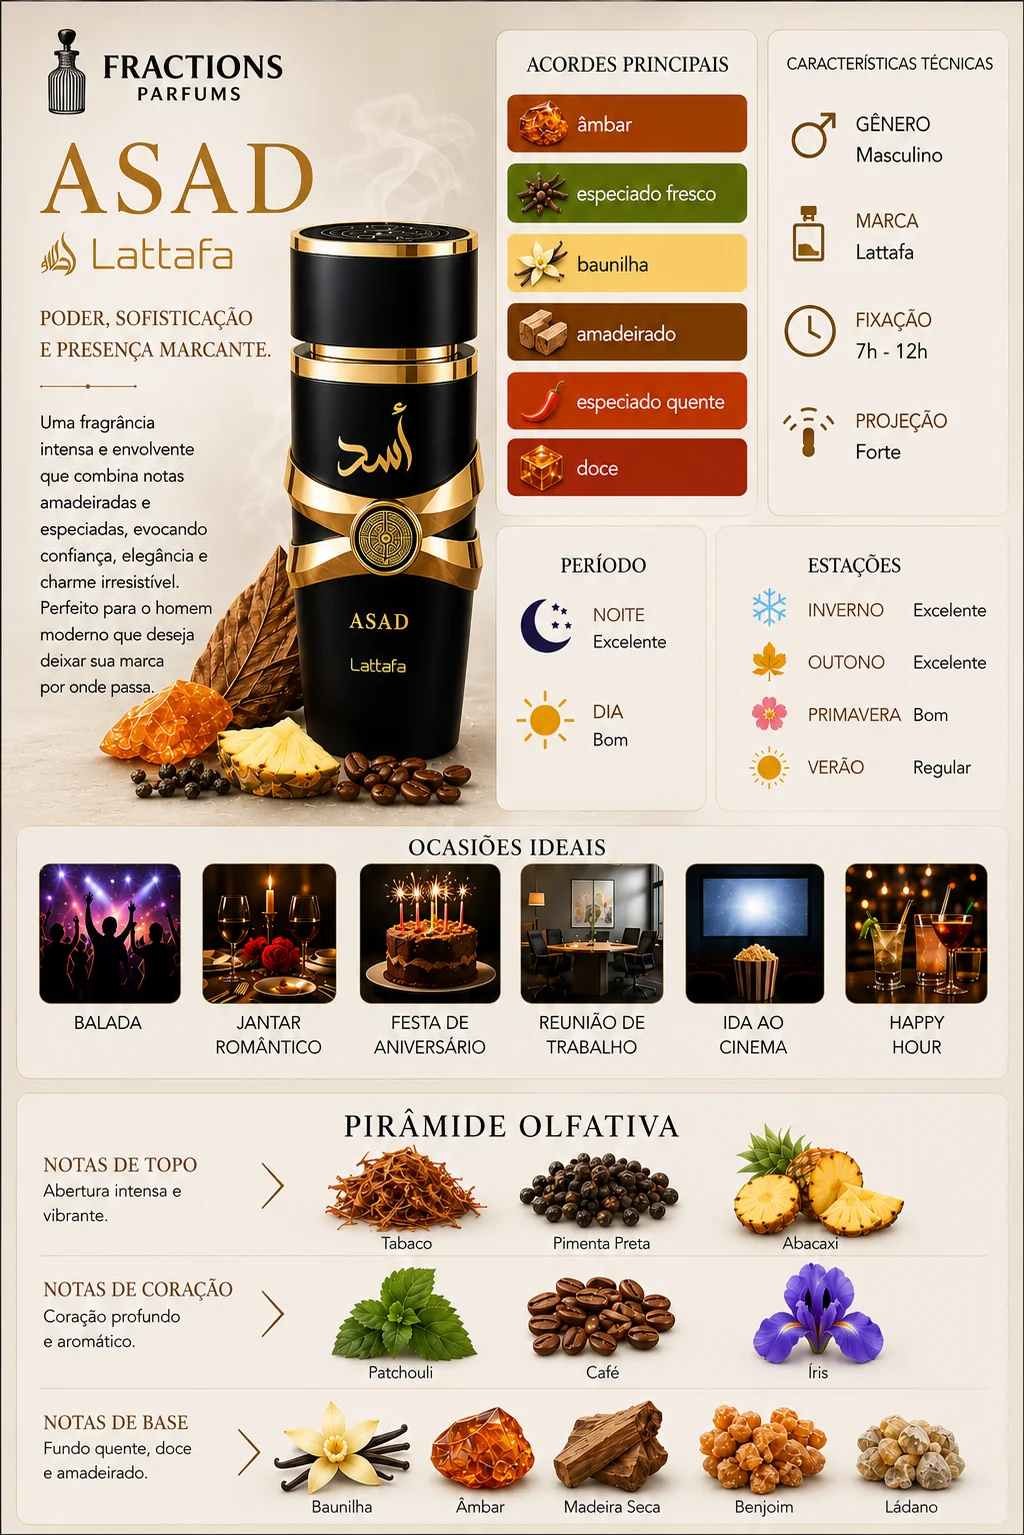
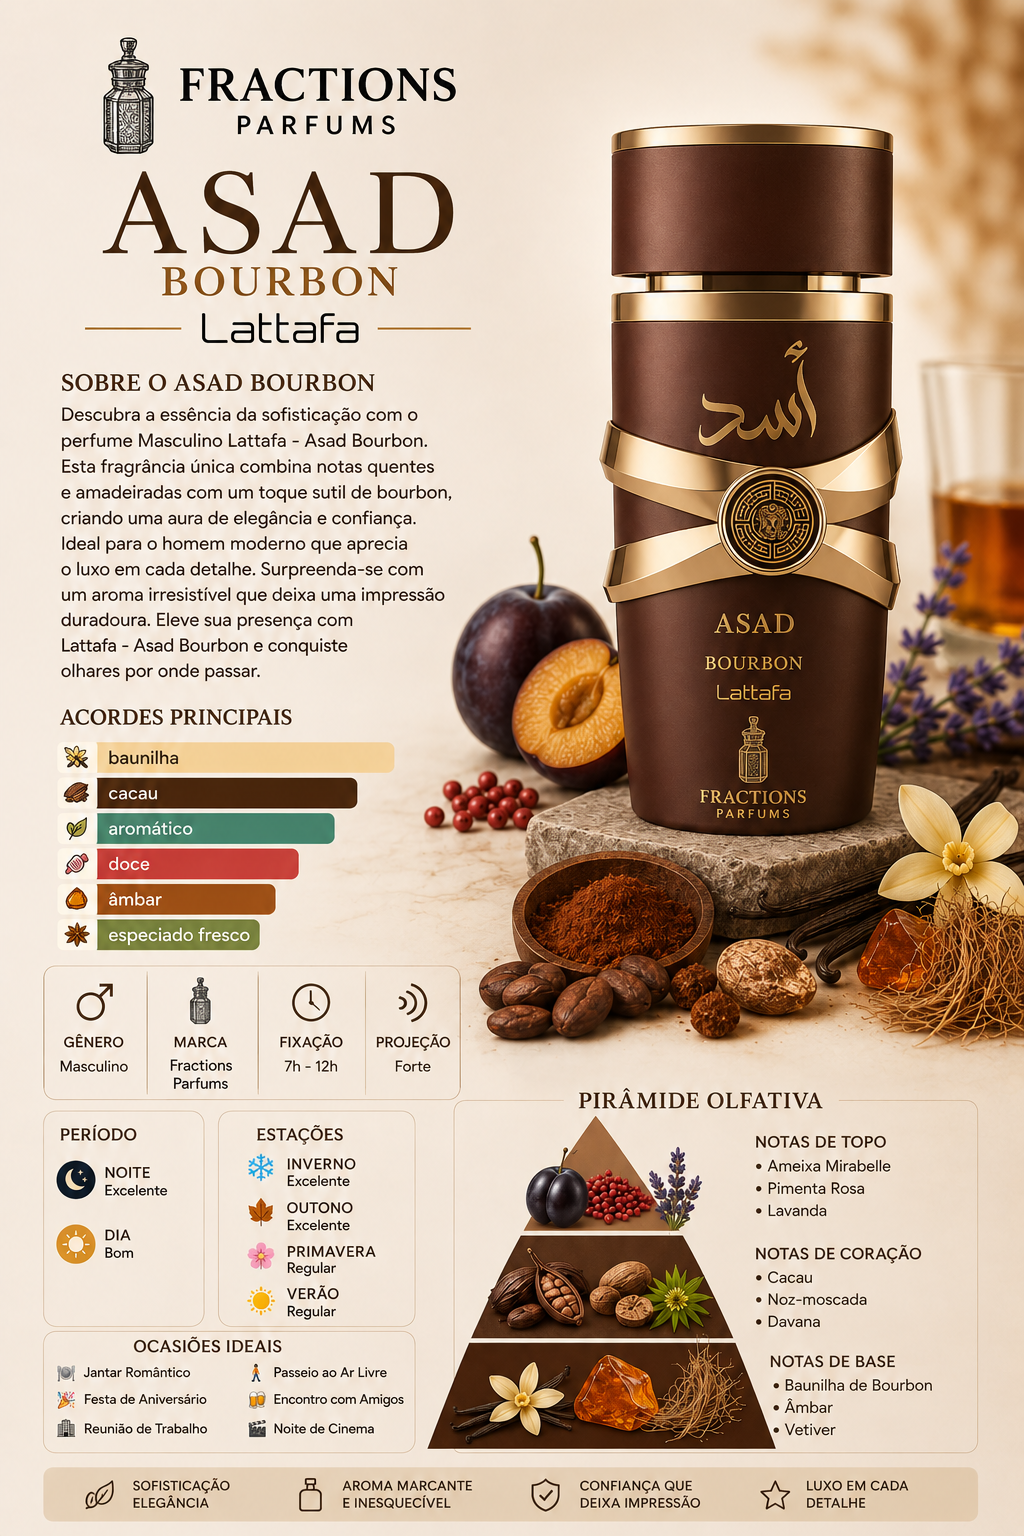
up imagens

diff --git a/apps/converter_webp.py b/apps/converter_webp.py
@@ -2,7 +2,7 @@ import os
 from PIL import Image
 
 # 🔥 CAMINHO DA SUA PASTA
-PASTA = r"C:\Users\wwwdl\OneDrive\Documentos\fractions_parfums\static\perfumes"
+PASTA = r"C:\Users\wwwdl\OneDrive\Documentos\fractions_parfums\static\perfumes\descricao"
 
 # ✅ QUALIDADE (80-85 ideal)
 QUALIDADE = 85